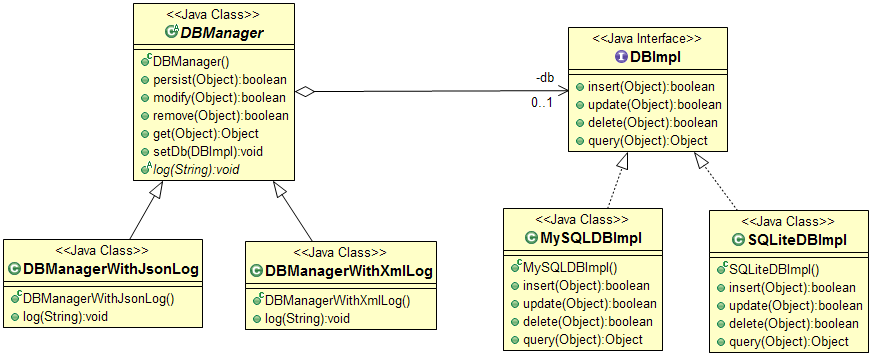
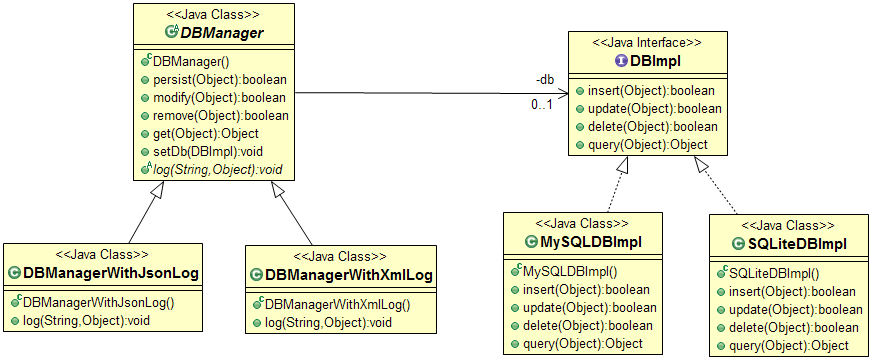
update bridge pattern

diff --git a/MaoMao/src/ustc/maomao/patterns/bridge/DBManager.java b/MaoMao/src/ustc/maomao/patterns/bridge/DBManager.java
@@ -24,7 +24,7 @@ public abstract class DBManager {
 	 * @return 持久化结果
 	 */
 	public boolean persist(Object o) {
-		log("插入一个对象");
+		log("插入一个对象",o);
 		return db.insert(o);
 	}
 
@@ -36,7 +36,7 @@ public abstract class DBManager {
 	 * @return 修改结果
 	 */
 	public boolean modify(Object o) {
-		log("修改一个对象");
+		log("修改一个对象",o);
 		return db.update(o);
 	}
 
@@ -48,7 +48,7 @@ public abstract class DBManager {
 	 * @return 移除结果
 	 */
 	public boolean remove(Object o) {
-		log("移除一个对象");
+		log("移除一个对象",o);
 		return db.delete(o);
 	}
 
@@ -60,7 +60,7 @@ public abstract class DBManager {
 	 * @return 获取的结果对象
 	 */
 	public Object get(Object o) {
-		log("获取一个对象");
+		log("获取一个对象",o);
 		return db.query(o);
 	}
 
@@ -76,6 +76,6 @@ public abstract class DBManager {
 	 * 数据库访问日志记录
 	 * @param operation 访问日志
 	 */
-	public abstract void log(String operation);
+	public abstract void log(String operation,Object o);
 
 }

diff --git a/MaoMao/src/ustc/maomao/patterns/bridge/DBManagerWithXmlLog.java b/MaoMao/src/ustc/maomao/patterns/bridge/DBManagerWithXmlLog.java
@@ -18,7 +18,7 @@ public class DBManagerWithXmlLog extends DBManager {
 	 * @see ustc.maomao.patterns.bridge.DBManager#log(java.lang.String)
 	 */
 	@Override
-	public void log(String operation) {		
+	public void log(String operation,Object o) {		
            System.out.println("<operation>"+operation+"</operation>");
 	}
 

diff --git a/MaoMao/src/ustc/maomao/patterns/bridge/DBManagerWithJsonLog.java b/MaoMao/src/ustc/maomao/patterns/bridge/DBManagerWithJsonLog.java
@@ -18,7 +18,7 @@ public class DBManagerWithJsonLog extends DBManager {
 	 * @see ustc.maomao.patterns.bridge.DBManager#log(java.lang.String)
 	 */
 	@Override
-	public void log(String operation) {
+	public void log(String operation,Object o) {
 		System.out.println("{\"operation\":\""+operation+"\"}");
 	}
 
